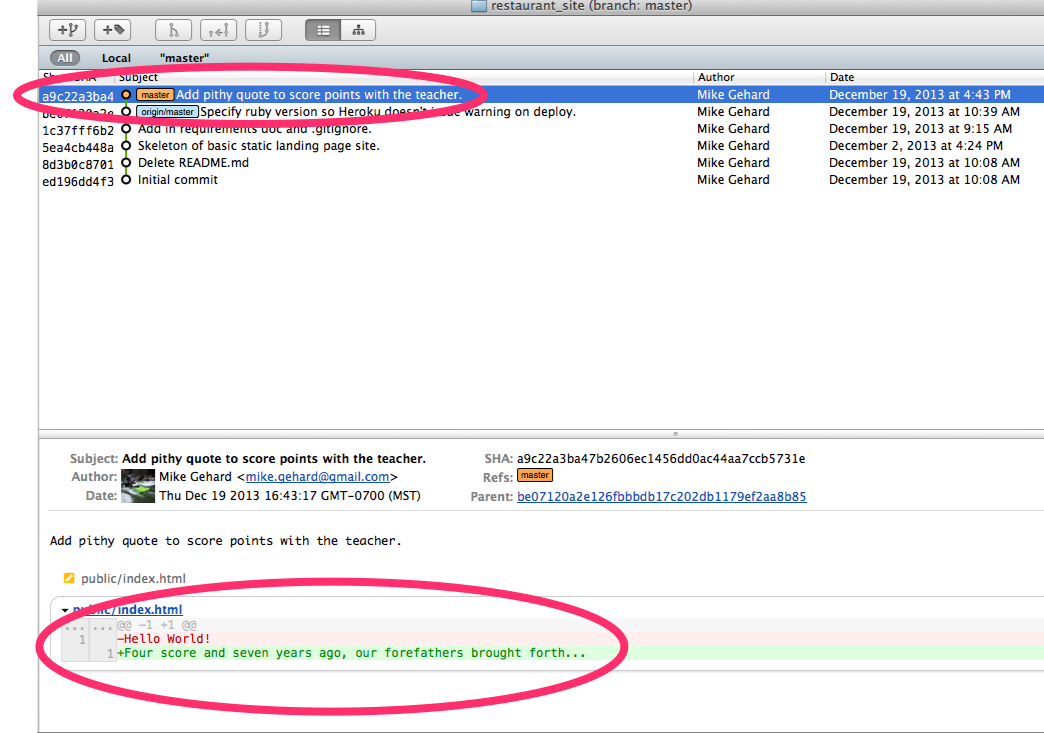
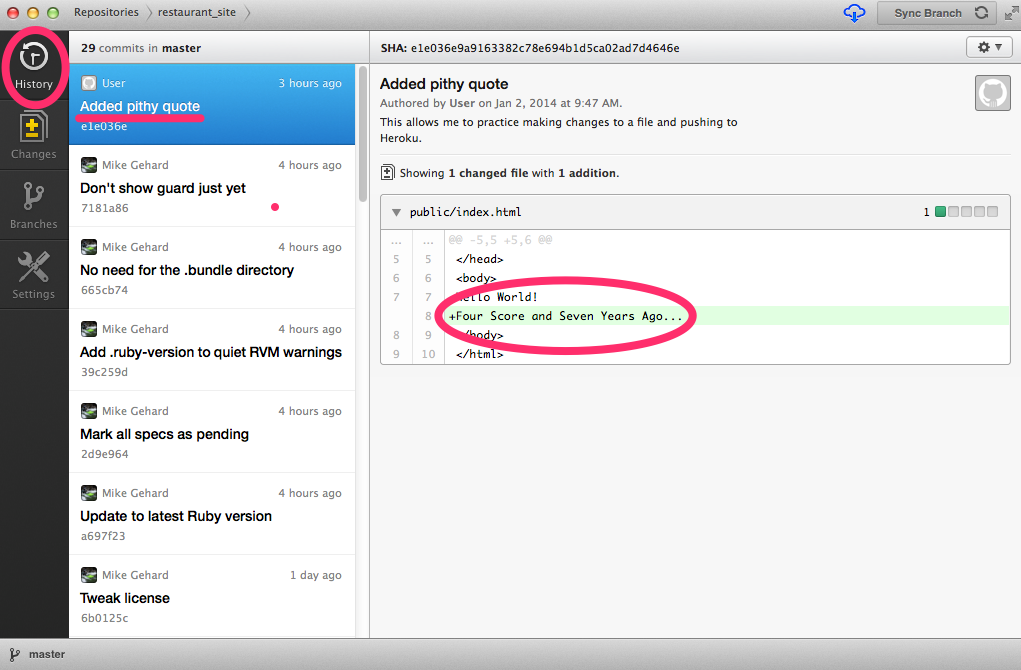
Change to use GitHub Gui.

diff --git a/source/staticSiteDeploy.liquid.md b/source/staticSiteDeploy.liquid.md
@@ -1,25 +1,27 @@
-#Deploying a static site to Heroku
+# Deploying a static site to Heroku
 
 ## XP practices learned
 * Incremental deployment
-* Stories
-* ???
+* Using Tracker Stories
+* Energized Work
+* Incremental Deployment
 
 ## Tech skills learned
 * Cloning repository from GitHub
 * Using local development environment
 * Deploying application to Heroku
 * Committing changes to local Git repository
+* Sharing changes with team mates via GitHub
 
-This tutorial will lead you through the steps of obtaining [source code](http://en.wikipedia.org/wiki/Source_code) for a [static web site](http://en.wikipedia.org/wiki/Static_web_page) from a remote [Git](http://git-scm.com/book/en/Getting-Started) repository by [cloning that repository](http://git-scm.com/book/en/Git-Basics-Getting-a-Git-Repository), making and confirming local changes to that site and deploying that application to the Internet via a hosting solution called [Heroku](https://www.heroku.com/).
+This tutorial will lead you through the steps of obtaining [source code](http://en.wikipedia.org/wiki/Source_code){:target="_blank"} for a [static web site](http://en.wikipedia.org/wiki/Static_web_page){:target="_blank"} from a remote [Git](http://git-scm.com/book/en/Getting-Started){:target="_blank"} repository by [cloning that repository](http://git-scm.com/book/en/Git-Basics-Getting-a-Git-Repository){:target="_blank"}, making and confirming changes to that site and deploying that application to the Internet via a cloud based hosting platform for [web applications](http://en.wikipedia.org/wiki/Web_application){:target="_blank"} called [Heroku](https://www.heroku.com/){:target="_blank"}.
 
-Story 1 - Clone static site template from GitHub:
+##<a name="localEnvironment"></a>Get static site template running locally
+
 In a terminal window, change into the directory that you have created to hold all of your class work and clone the template Git repository from GitHub into this directory.
 
 {% terminal %}
-$cd workspace
-$git clone SOME URL
-
+$ cd gSchoolWork
+$ git clone https://github.com/Galvanize-IT/restaurant_site.git
 Cloning into 'restaurant_site'...
 remote: Counting objects: 20, done.
 remote: Compressing objects: 100% (13/13), done.
@@ -29,14 +31,15 @@ Resolving deltas: 100% (1/1), done.
 Checking connectivity... done
 {% endterminal %}
 
-Story 2 - Make sure you can run the site locally:
-You can then change into the newly cloned directory (now known as the local development environment for this site) install the necessary Ruby [dependencies](http://en.wikipedia.org/wiki/Dependency_(computer_science)) using [Bundler](http://bundler.io/) and run the site locally. 
+You can then change into the newly cloned directory (now known as the [local development environment](http://www.agiledata.org/essays/sandboxes.html){:target="_blank"} for this site), install the necessary Ruby [dependencies](http://en.wikipedia.org/wiki/Dependency_(computer_science)){:target="_blank"} using [Bundler](http://bundler.io/){:target="_blank"} and run the site locally.
 
 {% terminal %}
 $cd restaurant_site
 $bundle install
-Installing rack (1.5.2) 
-Using bundler (1.3.5) 
+Fetching gem metadata from https://rubygems.org/.........
+Fetching additional metadata from https://rubygems.org/..
+Installing addressable (2.3.5)
+< other output after some time installing dependencies >
 Your bundle is complete!
 Use bundle show [gemname] to see where a bundled gem is installed.
 $rackup
@@ -45,14 +48,15 @@ $rackup
 [2013-12-19 10:17:24] INFO  WEBrick::HTTPServer#start: pid=14012 port=9292
 {% endterminal %}
 
-You will notice that the command window that the server is running in no longer has a prompt and a cursor. This means that the web server is running as a foreground process on your computer and is now occupying that terminal window until you stop it with Control-C.
+You will notice that the command window that the server is running in no longer has a prompt and a cursor. This means that the web server is running as a foreground process on your computer and is now occupying that terminal window until you stop it with `control-c` (holding down control key and then pressing the c key). You can open up multiple terminal tabs using `command-t` and then navigate to your
+local working directory if you need it.
 
-When you navigate your web browser to http://localhost:9292, you should see "Hello world!" displayed very plainly in your browser.
+When you navigate Chrome to [http://localhost:9292](http://localhost:9292){:target="_blank"}, you should see "Hello world!" displayed very plainly in your browser.
 
 ![Browsing the local development environment](/images/staticSiteDeploy/runningLocally.png)
 
-Story 3 - Deploy template to Heroku:
-You will now deploy the plain site from your local development environment to Heroku, a cloud based hosting platform for web applications. First you will need to create an application within Heroku using the Heroku [command line interface](http://en.wikipedia.org/wiki/Command-line_interface) installed with the Heroku toolbelt. Then you will push the code from your machine up to Heroku using Git and make sure it runs in a web browser.
+## <a name="deploy"></a>Deploy template to Heroku
+You will now deploy the plain site from your local development environment to Heroku. First you will need to create an application within Heroku using the Heroku [command line interface](http://en.wikipedia.org/wiki/Command-line_interface) installed with the Heroku toolbelt.
 
 {% terminal %}
 $heroku login
@@ -60,19 +64,35 @@ Enter your Heroku credentials.
 Email: <the email you signed up to Heroku with>
 Password (typing will be hidden): 
 Authentication successful.
-
 $heroku apps:create
 Creating protected-caverns-4965... done, stack is cedar
 http://protected-caverns-4965.herokuapp.com/ | git@heroku.com:protected-caverns-4965.git
+{% endterminal %}
 
-$git remote add heroku git@heroku.com:protected-caverns-4965.git
+The output shows you both the HTTP URL and the Git URL for the newly created application. Before we deploy the code, we need to confirm
+that we have a [Git remote](http://git-scm.com/book/en/Git-Basics-Working-with-Remotes){:target="_blank"} set up for Heroku.
 
+{% terminal %}
 $git remote -v
 heroku	git@heroku.com:protected-caverns-4965.git (fetch)
 heroku	git@heroku.com:protected-caverns-4965.git (push)
-origin	git@github.com:Galvanize-IT/restaurant_site.git (fetch)
-origin	git@github.com:Galvanize-IT/restaurant_site.git (push)
+< other remotes >
+{% endterminal %}
 
+If you do not see the `heroku` remote, you will need to add it. You will need the [Git remote](http://git-scm.com/book/ch4-1.html#The-Git-Protocol){:target="_blank"} string
+from when the application was created, in this case `git@heroku.com:protected-caverns-4965.git`.
+
+{% terminal %}
+$git remote add heroku git@heroku.com:protected-caverns-4965.git
+$git remote -v
+heroku	git@heroku.com:protected-caverns-4965.git (fetch)
+heroku	git@heroku.com:protected-caverns-4965.git (push)
+< other remotes >
+{% endterminal %}
+
+We can then push the code from your machine up to Heroku using Git and make sure it runs in a web browser.
+
+{% terminal %}
 $git push heroku master
 Initializing repository, done.
 Counting objects: 20, done.
@@ -80,112 +100,105 @@ Delta compression using up to 4 threads.
 Compressing objects: 100% (13/13), done.
 Writing objects: 100% (20/20), 3.27 KiB | 0 bytes/s, done.
 Total 20 (delta 1), reused 20 (delta 1)
-
 -----> Ruby app detected
------> Compiling Ruby/Rack
------> Using Ruby version: ruby-2.0.0
------> Installing dependencies using Bundler version 1.3.2
-
-<Lots more output>
-
------> Discovering process types
-       Procfile declares types -> (none)
-       Default types for Ruby  -> console, rake, web
-
------> Compressing... done, 12.0MB
+< lots more output >
 -----> Launching... done, v3
        http://protected-caverns-4965.herokuapp.com deployed to Heroku
-
 To git@heroku.com:protected-caverns-4965.git
  * [new branch]      master -> master
-
 $heroku open
 Opening protected-caverns-4965... done
 {% endterminal %}
 
+
 ![Browsing Heroku](/images/staticSiteDeploy/runningOnHeroku.png)
 
-Congratulations, you have just deployed what may be your first web application to the Internet for all to see! You can share this [URL](http://en.wikipedia.org/wiki/Uniform_resource_locator) with your friends and family.
+Congratulations, you have just deployed what may be your first web application to the Internet for all to see! You can share this [URL](http://en.wikipedia.org/wiki/Uniform_resource_locator){:target="_blank"} with your friends and family.
+Go and grab an instructor and have them accept the two stories that are awaiting acceptance.
 
-Story 4 - Make simple changes to site:
-Open your local working directory in RubyMine and find the public/index.html. Add some funny text to the file. Don't worry about saving it, RubyMine will auto save when the window is no longer the active window.
+## <a name="personalQuote"></a>User should see a personal quote on the static site
+Open your local working directory in RubyMine and find the public/index.html file and add some funny text to the file. Don't worry about saving it, RubyMine will auto save when the window is no longer the active window.
 
 ![Editing Index](/images/staticSiteDeploy/editingIndex.png)
 
-Story 5 - Add/commit the changes in the git gui
+Now we need to tell Git what changes we would like to add to it's history of our codebase. We will use the GitHub Gui to do this.
+Open the GitHub Gui using Spotlight by holding command key and pressing the space bar. This will open the Spotlight search. You can then start typing GitHub.
+It shouyld show up and you can open it up by pressing the Enter/Return key when it is selected in Spotlight.
 
-Open GitX. You can do this by hitting command-<space> and typing GitX into the Spotlight dialog that opens or you can find GitX in your Applications directory. 
+![Opening GitHubUi](/images/staticSiteDeploy/openGitHubGui.png)
 
-Open your local working directory using GitX and you should see the index.html listed in the left side of the bottom pane. This is Git's way of telling your that something has changed in this file. 
+Open your local working directory using the GitHub Gui (File -> Add Local Repository..., select the restaurant_site directory) and you should see the index.html listed in the left side of the screen. This is Git's way of telling your that something has changed in this file.
 
 ![Unstaged Changes](/images/staticSiteDeploy/unstagedChanges.png)
 
-You can click on this icon to see exactly what has changed. Git should show you the old text (denoted by the line with the "-" at the beginning) and the new text (denoted by the line with the "+" at the beginning).
+In the right side of the screen, you will see the changes you made to the file.
 
 ![Index Diff](/images/staticSiteDeploy/indexDiff.png)
 
-You can then tell Git that you are ready to commit your changes by dragging the index.html file from the left most pane to the right most pane or by double clicking the index.htm icon. This is called [staging the change](http://git-scm.com/book/en/Git-Basics-Recording-Changes-to-the-Repository).
+We will now tell Git that we wish to commit these changes to our local version of history. To do this, make sure that
+the checkbox next to public/index.html is checked. You will enter in a comment so that people who come after you will understand
+the changes that you made. In this case, we will enter "Added pithy quote" into the Commit Summary box and
+"This allows me to practice making changes to a file and pushing to Heroku" into the Extended description box.
+Hitting the Commit button will record the change to the [Git commit history](http://git-scm.com/book/en/Git-Basics-Viewing-the-Commit-History){:target="_blank"}. Think of this history like a running record of all of the changes you make to a set of files, called a [repository](http://en.wikipedia.org/wiki/Repository_(version_control)){:target="_blank"}, similar to the list of all transactions you keep in your checking account.
 
-![Staged Changes](/images/staticSiteDeploy/stagedChanges.png)
+![Staged Changes](/images/staticSiteDeploy/commitChanges.png)
 
-In order to record this change in your Git history. Think of this like a running record of all of the changes you make to a set of files, called a repository, similar to the running total you keep in your checking account. To do this, type a message in the middle pane at the bottom of the screen, something like "Text changes", and then hit the "commit" button.
-
-![Ready To Commit](/images/staticSiteDeploy/readyToCommit.png)
-
-You should see the file disappear from the bottom of the screen. No worries, Git has recorded your change for safe keeping. You can check this by clicking on the "master" branch link in the upper right corner of the GitX window.
-
-![Looking At Commit](/images/staticSiteDeploy/lookingAtCommit.png)
+You should see the file disappear from the left side of the screen. No worries, Git has recorded your change for safe keeping. You can check this by clicking on the "History" button in the upper left corner of the window.
+Your commit should be at the top of the list.
 
 ![Commit](/images/staticSiteDeploy/commitDetails.png)
 
-Story 6 - Push to Heroku
-
-You are now ready to share you change with the world by deploying your code to Heroku just like your did for story 3.
+You are now ready to share you change with the world by deploying your code to Heroku just like you did above.
 
 {% terminal %}
 $git push heroku master
-
 Fetching repository, done.
 Counting objects: 11, done.
 Delta compression using up to 4 threads.
 Compressing objects: 100% (6/6), done.
 Writing objects: 100% (7/7), 782 bytes | 0 bytes/s, done.
 Total 7 (delta 2), reused 3 (delta 1)
-
 -----> Ruby app detected
------> Compiling Ruby/Rack
------> Using Ruby version: ruby-2.0.0
------> Installing dependencies using Bundler version 1.3.2
-       Running: bundle install --without development:test --path vendor/bundle --binstubs vendor/bundle/bin --deployment
-       Using rack (1.5.2)
-       Using bundler (1.3.2)
-       Your bundle is complete! It was installed into ./vendor/bundle
-       Bundle completed (0.45s)
-       Cleaning up the bundler cache.
------> Discovering process types
-       Procfile declares types -> (none)
-       Default types for Ruby  -> console, rake, web
-
------> Compressing... done, 12.0MB
+< lots of output >
 -----> Launching... done, v4
        http://protected-caverns-4965.herokuapp.com deployed to Heroku
-
 To git@heroku.com:protected-caverns-4965.git
    1c37fff..a9c22a3  master -> master
-   
+{% endterminal %}
+
 You can confirm that your changes were deployed by opening up the browser. You may need to refresh the page to see the changes.
 
+{% terminal %}
 $heroku open
 Opening protected-caverns-4965... done
-
 {% endterminal %}
 
 ![After Changes](/images/staticSiteDeploy/afterChangesBrowser.png)
 
-Congratulations, you have successfully finished your first release marker in Tracker. You can click on the blue "Finish" button in the "Static page deployed" Tracker feature.
+Now that you have confirmed that your changes are indeed working, you should push your changes back up to GitHub. This step will
+become more important as your team grows past one person so your team mates can [integrate your changes into their work](http://git-scm.com/book/en/Distributed-Git-Distributed-Workflows){:target="_blank"}.
+
+{% terminal %}
+$ git push origin master
+Counting objects: 6, done.
+Delta compression using up to 4 threads.
+Compressing objects: 100% (3/3), done.
+Writing objects: 100% (3/3), 321 bytes | 0 bytes/s, done.
+Total 3 (delta 2), reused 0 (delta 0)
+To git@github.com:yourUsername/restaurant_site.git
+   7181a86..1472f4f  master -> master
+{% endterminal %}
+
+Congratulations, you have successfully deployed your first web site change to Heroku and have pushed them up to GitHub.
+Go and grab an instructor and have them accept any stories that are awaiting acceptance.
 
 ## Homework Exercises
-Git Version Control
 
-* http://try.github.io/
-* http://gitimmersion.com/
+We have gone through a lot of Git functionality in this lesson. Your homework is to learn a bit more about Git using the command line instead of
+the GitHub Gui. Please complete the following two online tutorials and come prepared with any questions you have:
+
+* [http://try.github.io/](http://try.github.io/){:target="_blank"}
+* [http://gitimmersion.com/](http://try.github.io/){:target="_blank"}
+
+As you take your Git learning deeper, you can check out the [free online book](http://git-scm.com/book){:target="_blank"} for
+more information about Git and it's inner workings.
